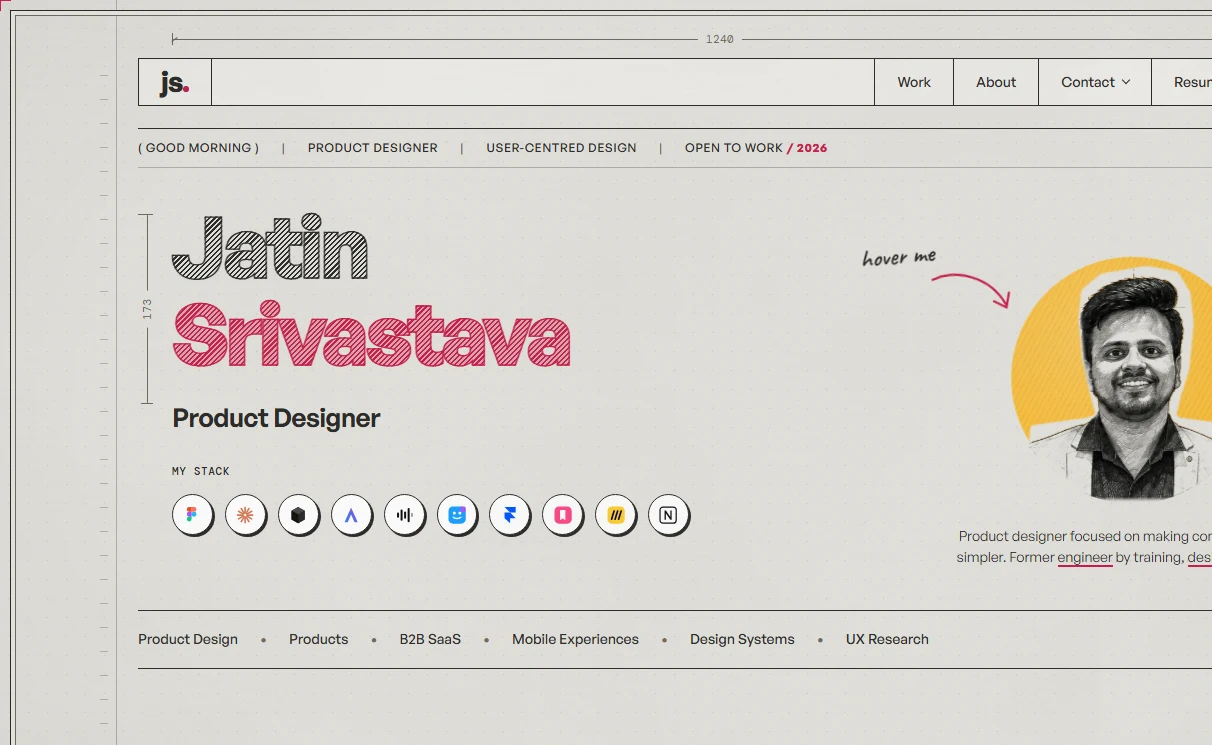
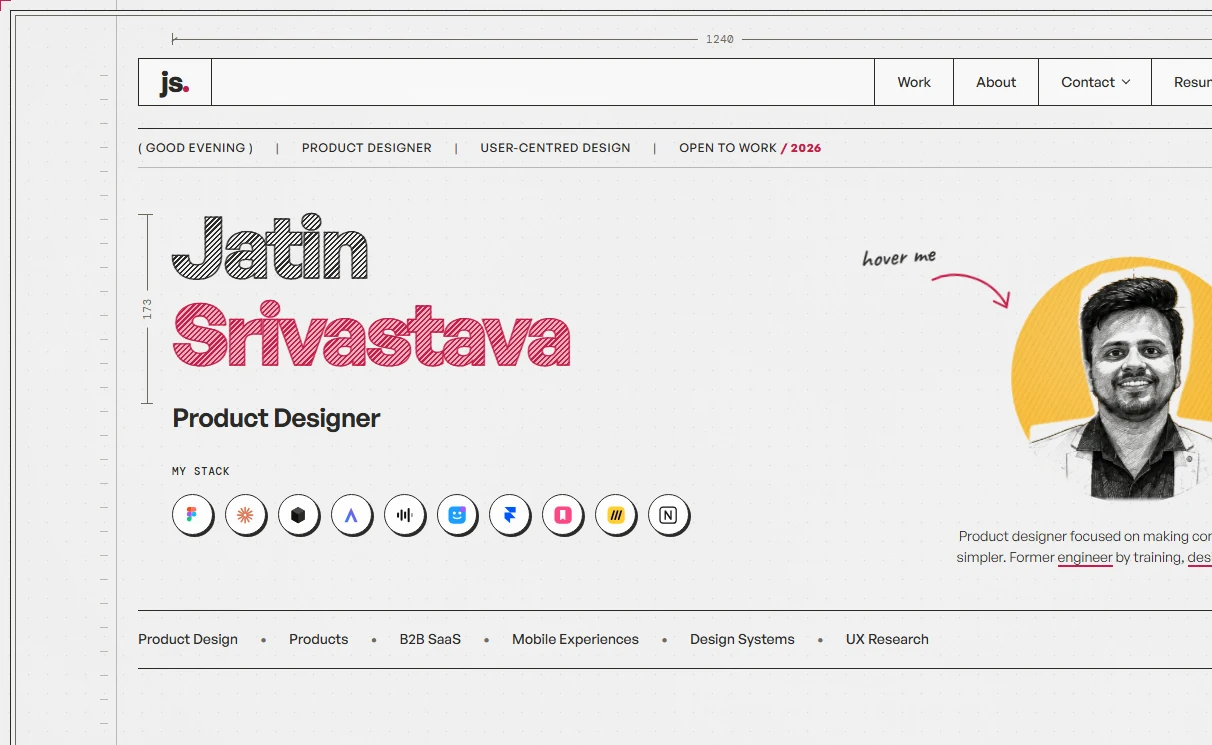
Website background #f2f2f2 (HSL 0 0 95), lighter cards, quieter paper texture, refreshed intro print

diff --git a/site/work/competition-tracking.html b/site/work/competition-tracking.html
@@ -6,7 +6,7 @@
 <link rel="preconnect" href="https://fonts.googleapis.com"><link rel="preconnect" href="https://fonts.gstatic.com" crossorigin>
 <link href="https://api.fontshare.com/v2/css?f[]=general-sans@400,500,600,700&display=swap" rel="stylesheet">
 <link href="https://fonts.googleapis.com/css2?family=DM+Mono:wght@300;400;500&display=swap" rel="stylesheet">
-<link rel="stylesheet" href="../datum.css?v=5"><link rel="stylesheet" href="../style.css?v=6"><link rel="stylesheet" href="../case.css?v=5"><link rel="stylesheet" href="../drafting.css?v=80"><link rel="stylesheet" href="../locearn.css?v=24"><link rel="stylesheet" href="../cs.css?v=5"><link rel="stylesheet" href="../navdd.css?v=3">
+<link rel="stylesheet" href="../datum.css?v=5"><link rel="stylesheet" href="../style.css?v=6"><link rel="stylesheet" href="../case.css?v=5"><link rel="stylesheet" href="../drafting.css?v=83"><link rel="stylesheet" href="../locearn.css?v=24"><link rel="stylesheet" href="../cs.css?v=5"><link rel="stylesheet" href="../navdd.css?v=3">
 <script>try{var t=localStorage.getItem("theme");if(t)document.documentElement.setAttribute("data-theme",t)}catch(e){}</script>
 </head><body class="cx le cs" style='--tot:"12"'><svg width="0" height="0" style="position:absolute" aria-hidden="true" focusable="false"><defs><filter id="rough" x="-6%" y="-6%" width="112%" height="112%"><feTurbulence type="fractalNoise" baseFrequency="0.03" numOctaves="2" seed="7" result="n"/><feDisplacementMap in="SourceGraphic" in2="n" scale="2.2" xChannelSelector="R" yChannelSelector="G"/></filter></defs></svg>
 <div class="grain" aria-hidden="true"></div><div class="cx-bar" id="cxbar"></div>

diff --git a/site/work/datum.html b/site/work/datum.html
@@ -6,7 +6,7 @@
 <link rel="preconnect" href="https://fonts.googleapis.com"><link rel="preconnect" href="https://fonts.gstatic.com" crossorigin>
 <link href="https://api.fontshare.com/v2/css?f[]=general-sans@400,500,600,700&display=swap" rel="stylesheet">
 <link href="https://fonts.googleapis.com/css2?family=DM+Mono:wght@300;400;500&display=swap" rel="stylesheet">
-<link rel="stylesheet" href="../datum.css?v=5"><link rel="stylesheet" href="../style.css?v=6"><link rel="stylesheet" href="../case.css?v=5"><link rel="stylesheet" href="../drafting.css?v=80"><link rel="stylesheet" href="../locearn.css?v=24"><link rel="stylesheet" href="../cs.css?v=5"><link rel="stylesheet" href="../navdd.css?v=3">
+<link rel="stylesheet" href="../datum.css?v=5"><link rel="stylesheet" href="../style.css?v=6"><link rel="stylesheet" href="../case.css?v=5"><link rel="stylesheet" href="../drafting.css?v=83"><link rel="stylesheet" href="../locearn.css?v=24"><link rel="stylesheet" href="../cs.css?v=5"><link rel="stylesheet" href="../navdd.css?v=3">
 <script>try{var t=localStorage.getItem("theme");if(t)document.documentElement.setAttribute("data-theme",t)}catch(e){}</script>
 </head><body class="cx le cs" style='--tot:"06"'><svg width="0" height="0" style="position:absolute" aria-hidden="true" focusable="false"><defs><filter id="rough" x="-6%" y="-6%" width="112%" height="112%"><feTurbulence type="fractalNoise" baseFrequency="0.03" numOctaves="2" seed="7" result="n"/><feDisplacementMap in="SourceGraphic" in2="n" scale="2.2" xChannelSelector="R" yChannelSelector="G"/></filter></defs></svg>
 <div class="grain" aria-hidden="true"></div><div class="cx-bar" id="cxbar"></div>

diff --git a/site/work/kangaru.html b/site/work/kangaru.html
@@ -6,7 +6,7 @@
 <link rel="preconnect" href="https://fonts.googleapis.com"><link rel="preconnect" href="https://fonts.gstatic.com" crossorigin>
 <link href="https://api.fontshare.com/v2/css?f[]=general-sans@400,500,600,700&display=swap" rel="stylesheet">
 <link href="https://fonts.googleapis.com/css2?family=DM+Mono:wght@300;400;500&display=swap" rel="stylesheet">
-<link rel="stylesheet" href="../datum.css?v=5"><link rel="stylesheet" href="../style.css?v=6"><link rel="stylesheet" href="../case.css?v=5"><link rel="stylesheet" href="../drafting.css?v=80"><link rel="stylesheet" href="../locearn.css?v=24"><link rel="stylesheet" href="../cs.css?v=5"><link rel="stylesheet" href="../navdd.css?v=3">
+<link rel="stylesheet" href="../datum.css?v=5"><link rel="stylesheet" href="../style.css?v=6"><link rel="stylesheet" href="../case.css?v=5"><link rel="stylesheet" href="../drafting.css?v=83"><link rel="stylesheet" href="../locearn.css?v=24"><link rel="stylesheet" href="../cs.css?v=5"><link rel="stylesheet" href="../navdd.css?v=3">
 <script>try{var t=localStorage.getItem("theme");if(t)document.documentElement.setAttribute("data-theme",t)}catch(e){}</script>
 </head><body class="cx le cs" style='--tot:"15"'><svg width="0" height="0" style="position:absolute" aria-hidden="true" focusable="false"><defs><filter id="rough" x="-6%" y="-6%" width="112%" height="112%"><feTurbulence type="fractalNoise" baseFrequency="0.03" numOctaves="2" seed="7" result="n"/><feDisplacementMap in="SourceGraphic" in2="n" scale="2.2" xChannelSelector="R" yChannelSelector="G"/></filter></defs></svg>
 <div class="grain" aria-hidden="true"></div><div class="cx-bar" id="cxbar"></div>

diff --git a/site/work/locearn.html b/site/work/locearn.html
@@ -6,7 +6,7 @@
 <link rel="preconnect" href="https://fonts.googleapis.com"><link rel="preconnect" href="https://fonts.gstatic.com" crossorigin>
 <link href="https://api.fontshare.com/v2/css?f[]=general-sans@400,500,600,700&display=swap" rel="stylesheet">
 <link href="https://fonts.googleapis.com/css2?family=DM+Mono:wght@300;400;500&display=swap" rel="stylesheet">
-<link rel="stylesheet" href="../datum.css?v=5"><link rel="stylesheet" href="../style.css?v=6"><link rel="stylesheet" href="../case.css?v=5"><link rel="stylesheet" href="../drafting.css?v=80"><link rel="stylesheet" href="../locearn.css?v=24"><link rel="stylesheet" href="../navdd.css?v=3">
+<link rel="stylesheet" href="../datum.css?v=5"><link rel="stylesheet" href="../style.css?v=6"><link rel="stylesheet" href="../case.css?v=5"><link rel="stylesheet" href="../drafting.css?v=83"><link rel="stylesheet" href="../locearn.css?v=24"><link rel="stylesheet" href="../navdd.css?v=3">
 <script>try{var t=localStorage.getItem("theme");if(t)document.documentElement.setAttribute("data-theme",t)}catch(e){}</script>
 </head><body class="cx le"><svg width="0" height="0" style="position:absolute" aria-hidden="true" focusable="false"><defs><filter id="rough" x="-6%" y="-6%" width="112%" height="112%"><feTurbulence type="fractalNoise" baseFrequency="0.03" numOctaves="2" seed="7" result="n"/><feDisplacementMap in="SourceGraphic" in2="n" scale="2.2" xChannelSelector="R" yChannelSelector="G"/></filter></defs></svg>
 <div class="grain" aria-hidden="true"></div><div class="cx-bar" id="cxbar"></div>

diff --git a/site/drafting.css b/site/drafting.css
@@ -4,10 +4,10 @@
 
 :root, [data-theme="light"] {
   color-scheme: light;
-  --bg: #e4e3de;
-  --surface: #eeede9;
-  --panel: #eeede9;
-  --stage: #d9d8d2;
+  --bg: #f2f2f2;
+  --surface: #fafafa;
+  --panel: #fafafa;
+  --stage: #e8e8e8;
   --band: #e5e0d3;
   --ink: #2b2a28;
   --muted: #5e5a51;
@@ -342,7 +342,7 @@ footer.dr-foot { border: 0; padding: 0; margin: 0; }
    v2 — matched to the reference: quiet paper, big asymmetric work rows,
    larger tilted sketches that lift off the page on hover.
    ===================================================================== */
-:root:not([data-theme="dark"]), [data-theme="light"] { --bg: #e4e3de; --grid: rgba(43, 42, 40, 0.0); }
+:root:not([data-theme="dark"]), [data-theme="light"] { --bg: #f2f2f2; --grid: rgba(43, 42, 40, 0.0); }
 body {
   background-image:
     radial-gradient(rgba(0, 0, 0, 0.07) 0.8px, transparent 1.1px),
@@ -981,3 +981,9 @@ html::after { opacity: 0.35; }
   html:not(.xh) a, html:not(.xh) button { cursor: pointer; }
   html.xh input[type="text"], html.xh input[type="email"], html.xh textarea { cursor: text; }
 }
+
+/* the page reads as the plain #f2f2f2: paper grain and edge vignette are only a whisper in the light theme */
+:root:not([data-theme="dark"]) body.dr::after { opacity: 0.06; }
+:root:not([data-theme="dark"]) html::after { opacity: 0.1; }
+:root:not([data-theme="dark"])::after { opacity: 0.1; }
+:root:not([data-theme="dark"]) .grain { opacity: 0.025; }

diff --git a/site/index.html b/site/index.html
@@ -12,7 +12,7 @@
   <link rel="preconnect" href="https://fonts.googleapis.com"><link rel="preconnect" href="https://fonts.gstatic.com" crossorigin>
   <link href="https://api.fontshare.com/v2/css?f[]=general-sans@400,500,600,700&display=swap" rel="stylesheet">
   <link href="https://fonts.googleapis.com/css2?family=DM+Mono:wght@300;400;500&family=Caveat:wght@500;600&display=swap" rel="stylesheet">
-  <link rel="stylesheet" href="datum.css?v=7"><link rel="stylesheet" href="style.css?v=7"><link rel="stylesheet" href="drafting.css?v=80"><link rel="stylesheet" href="pass.css?v=6"><link rel="stylesheet" href="navdd.css?v=3"><link rel="stylesheet" href="intro.css?v=20">
+  <link rel="stylesheet" href="datum.css?v=7"><link rel="stylesheet" href="style.css?v=7"><link rel="stylesheet" href="drafting.css?v=83"><link rel="stylesheet" href="pass.css?v=6"><link rel="stylesheet" href="navdd.css?v=3"><link rel="stylesheet" href="intro.css?v=20">
   <script>
     (function () {
       try {
